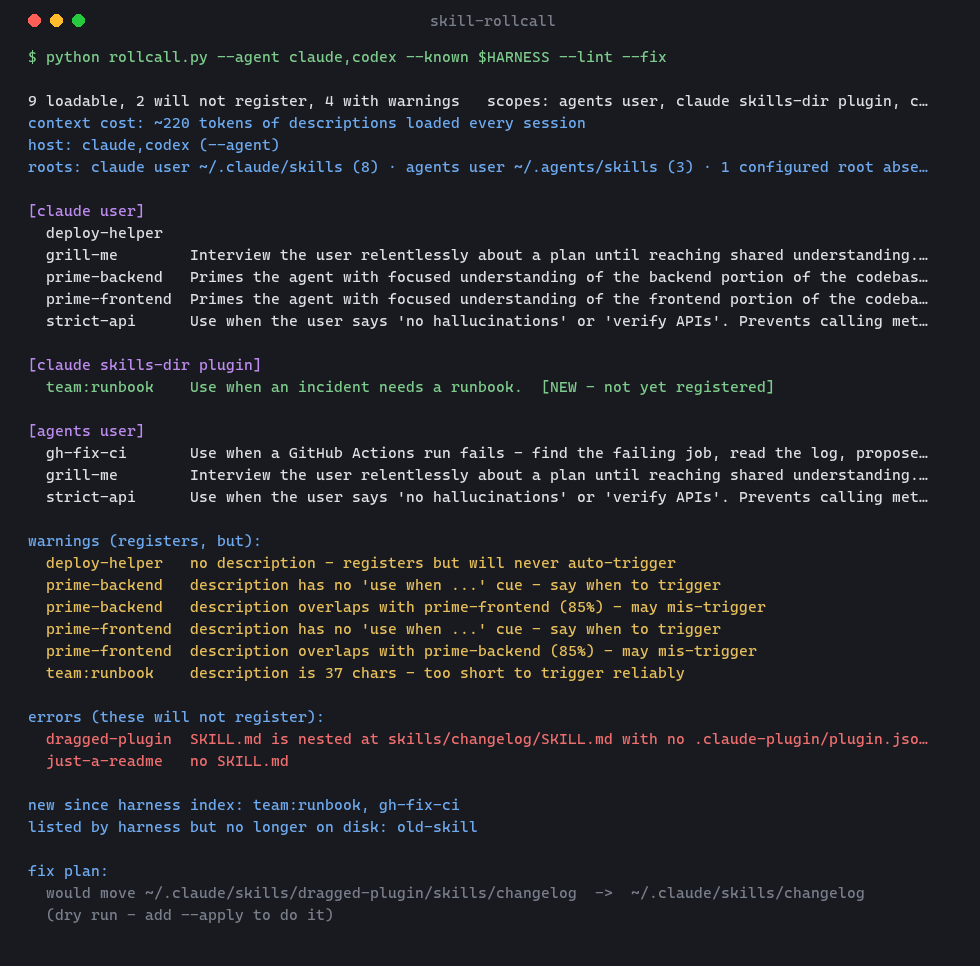
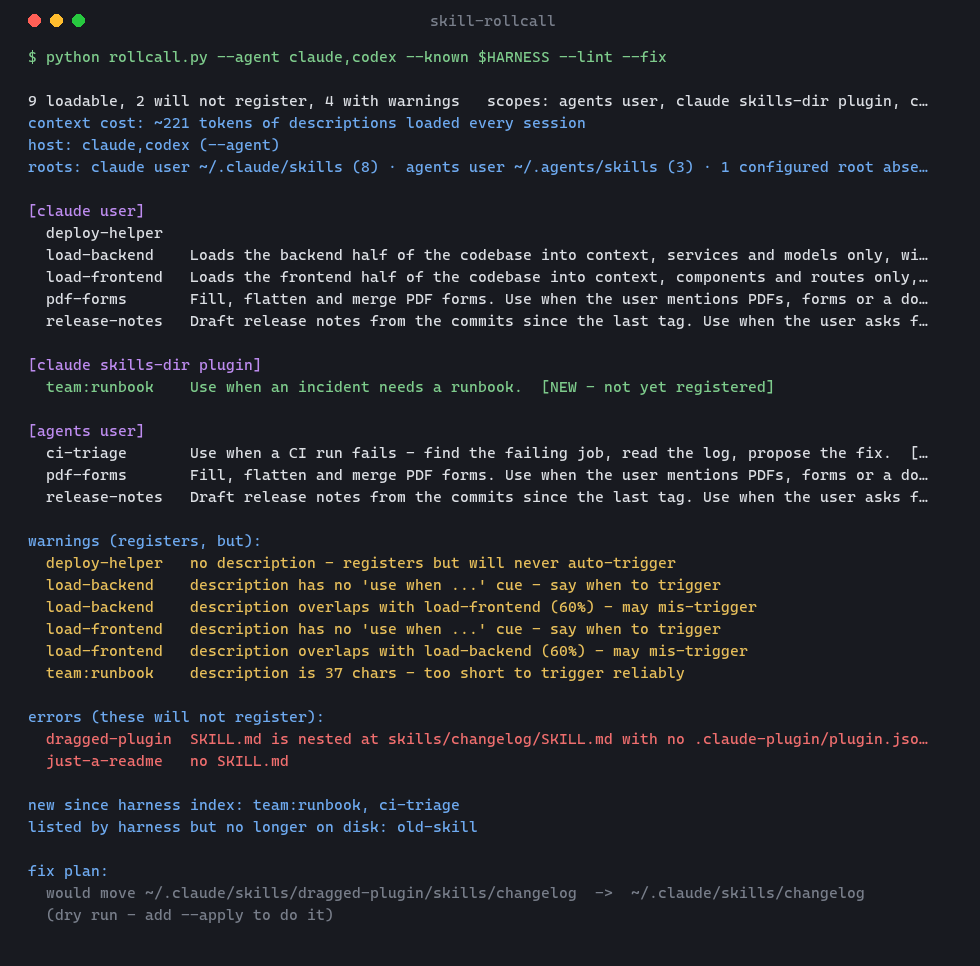
Demo and README examples use a fictional project (tidewatch), not real repos, paths or identities

diff --git a/docs/make_demo.py b/docs/make_demo.py
@@ -36,13 +36,13 @@ def fixture(home: Path) -> None:
     s = home / ".claude" / "skills"
     # the same two skills installed for Codex too, plus one only Codex has
     a = home / ".agents" / "skills"
-    write(a / "strict-api" / "SKILL.md", "---\nname: strict-api\ndescription: Use when the user says 'no hallucinations' or 'verify APIs'. Prevents calling methods that do not exist.\n---\n")
-    write(a / "grill-me" / "SKILL.md", "---\nname: grill-me\ndescription: Interview the user relentlessly about a plan until reaching shared understanding. Use when the user says 'grill me'.\n---\n")
-    write(a / "gh-fix-ci" / "SKILL.md", "---\nname: gh-fix-ci\ndescription: Use when a GitHub Actions run fails - find the failing job, read the log, propose the fix.\n---\n")
-    write(s / "strict-api" / "SKILL.md", "---\nname: strict-api\ndescription: Use when the user says 'no hallucinations' or 'verify APIs'. Prevents calling methods that do not exist.\n---\n")
-    write(s / "grill-me" / "SKILL.md", "---\nname: grill-me\ndescription: Interview the user relentlessly about a plan until reaching shared understanding. Use when the user says 'grill me'.\n---\n")
-    write(s / "prime-backend" / "SKILL.md", "---\nname: prime-backend\ndescription: Primes the agent with focused understanding of the backend portion of the codebase without loading unrelated code.\n---\n")
-    write(s / "prime-frontend" / "SKILL.md", "---\nname: prime-frontend\ndescription: Primes the agent with focused understanding of the frontend portion of the codebase without loading unrelated code.\n---\n")
+    write(a / "release-notes" / "SKILL.md", "---\nname: release-notes\ndescription: Draft release notes from the commits since the last tag. Use when the user asks for a changelog, release notes or 'what shipped'.\n---\n")
+    write(a / "pdf-forms" / "SKILL.md", "---\nname: pdf-forms\ndescription: Fill, flatten and merge PDF forms. Use when the user mentions PDFs, forms or a document to fill in.\n---\n")
+    write(a / "ci-triage" / "SKILL.md", "---\nname: ci-triage\ndescription: Use when a CI run fails - find the failing job, read the log, propose the fix.\n---\n")
+    write(s / "release-notes" / "SKILL.md", "---\nname: release-notes\ndescription: Draft release notes from the commits since the last tag. Use when the user asks for a changelog, release notes or 'what shipped'.\n---\n")
+    write(s / "pdf-forms" / "SKILL.md", "---\nname: pdf-forms\ndescription: Fill, flatten and merge PDF forms. Use when the user mentions PDFs, forms or a document to fill in.\n---\n")
+    write(s / "load-backend" / "SKILL.md", "---\nname: load-backend\ndescription: Loads the backend half of the codebase into context, services and models only, without the rest of the tree.\n---\n")
+    write(s / "load-frontend" / "SKILL.md", "---\nname: load-frontend\ndescription: Loads the frontend half of the codebase into context, components and routes only, without the rest of the tree.\n---\n")
     write(s / "deploy-helper" / "SKILL.md", "---\nname: deploy-helper\n---\n")
     write(s / "dragged-plugin" / "skills" / "changelog" / "SKILL.md", "---\nname: changelog\ndescription: Use when writing release notes.\n---\n")
     write(s / "just-a-readme" / "README.md", "# oops\n")
@@ -57,7 +57,7 @@ def main() -> None:
         buf = io.StringIO()
         with redirect_stdout(buf):
             rollcall.main(["--home", str(home), "--no-plugins", "--project", tmp, "--agent", "claude,codex",
-                           "--known", "strict-api,grill-me,prime-backend,prime-frontend,deploy-helper,old-skill",
+                           "--known", "release-notes,pdf-forms,load-backend,load-frontend,deploy-helper,old-skill",
                            "--lint", "--fix"])
         out = (buf.getvalue().replace(str(home / ".claude" / "skills"), "~/.claude/skills")
                .replace(str(home / ".agents" / "skills"), "~/.agents/skills").replace("\\", "/"))
